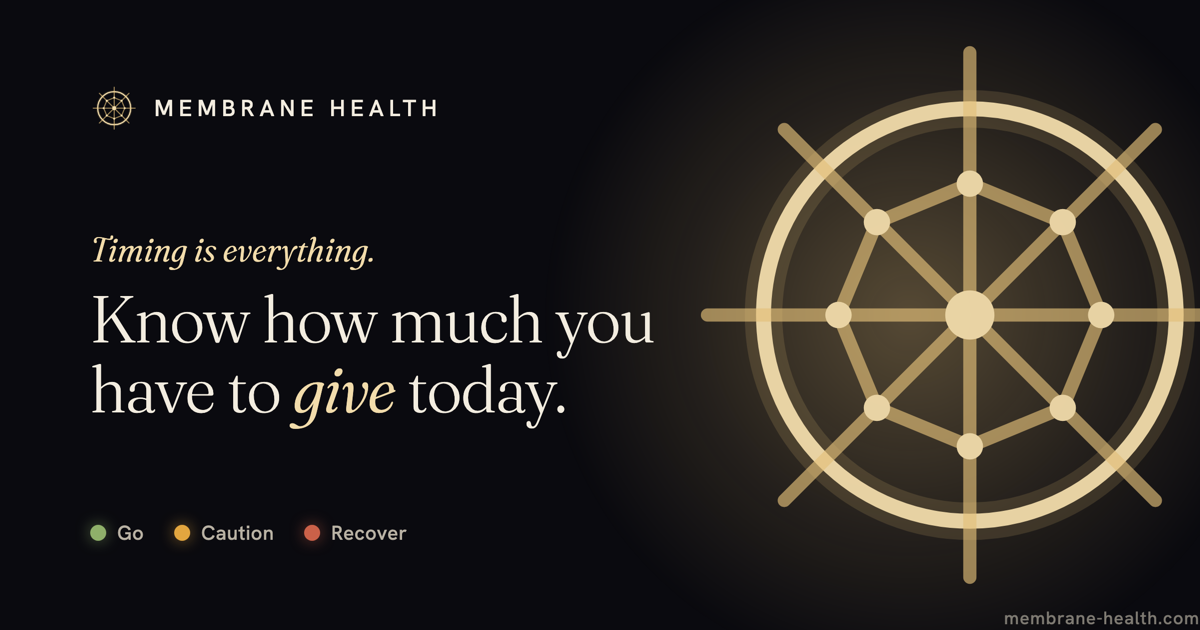
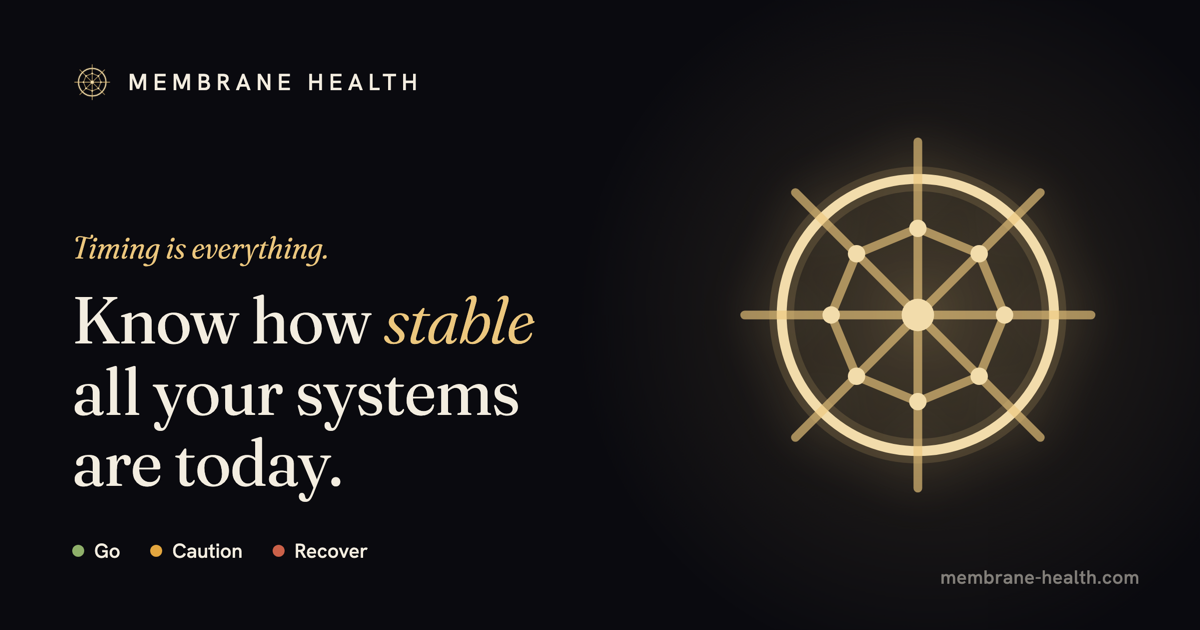
Refresh OG card to the current hero; cache-bust og:image
- Regenerate og-card.png with the rebuilt copy ("Know how stable all your
  systems are today" — was the stale "give" hero from the initial build)
- Cache-bust og:image / twitter:image to ?v=2 across all pages so social
  platforms re-fetch the new card instead of the cached old one

diff --git a/index.html b/index.html
@@ -12,12 +12,12 @@
   <meta property="og:url" content="https://membrane-health.com/">
   <meta property="og:title" content="Membrane Health — Know how stable your systems are today">
   <meta property="og:description" content="Membrane Health computes how coherently your systems are holding together today, measured against a mathematical definition of health and calibrated to you. Your result, live: go, caution, or recover. Built on your Apple Watch.">
-  <meta property="og:image" content="https://membrane-health.com/assets/img/og-card.png">
+  <meta property="og:image" content="https://membrane-health.com/assets/img/og-card.png?v=2">
   <meta property="og:image:width" content="1200">
   <meta property="og:image:height" content="630">
   <meta property="og:image:alt" content="Membrane Health — Timing is everything.">
   <meta name="twitter:card" content="summary_large_image">
-  <meta name="twitter:image" content="https://membrane-health.com/assets/img/og-card.png">
+  <meta name="twitter:image" content="https://membrane-health.com/assets/img/og-card.png?v=2">
 
   <link rel="icon" href="assets/img/favicon.ico" sizes="any">
   <link rel="icon" type="image/svg+xml" href="assets/img/favicon.svg">

diff --git a/privacy.html b/privacy.html
@@ -12,12 +12,12 @@
   <meta property="og:url" content="https://membrane-health.com/privacy.html">
   <meta property="og:title" content="Privacy Policy — Membrane Health">
   <meta property="og:description" content="How Membrane Health, a product of Fieldflux Biosystems, Inc., collects, uses, and protects your information — consent-driven, time-bounded, and never sold.">
-  <meta property="og:image" content="https://membrane-health.com/assets/img/og-card.png">
+  <meta property="og:image" content="https://membrane-health.com/assets/img/og-card.png?v=2">
   <meta property="og:image:width" content="1200">
   <meta property="og:image:height" content="630">
   <meta property="og:image:alt" content="Membrane Health — Timing is everything.">
   <meta name="twitter:card" content="summary_large_image">
-  <meta name="twitter:image" content="https://membrane-health.com/assets/img/og-card.png">
+  <meta name="twitter:image" content="https://membrane-health.com/assets/img/og-card.png?v=2">
 
   <link rel="icon" href="assets/img/favicon.ico" sizes="any">
   <link rel="icon" type="image/svg+xml" href="assets/img/favicon.svg">

diff --git a/faq.html b/faq.html
@@ -12,12 +12,12 @@
   <meta property="og:url" content="https://membrane-health.com/faq.html">
   <meta property="og:title" content="FAQ — Membrane Health">
   <meta property="og:description" content="Answers to common questions about Membrane Health — what it reads, whether you need an Apple Watch, how your data is handled, the plans, and when it launches.">
-  <meta property="og:image" content="https://membrane-health.com/assets/img/og-card.png">
+  <meta property="og:image" content="https://membrane-health.com/assets/img/og-card.png?v=2">
   <meta property="og:image:width" content="1200">
   <meta property="og:image:height" content="630">
   <meta property="og:image:alt" content="Membrane Health — Timing is everything.">
   <meta name="twitter:card" content="summary_large_image">
-  <meta name="twitter:image" content="https://membrane-health.com/assets/img/og-card.png">
+  <meta name="twitter:image" content="https://membrane-health.com/assets/img/og-card.png?v=2">
 
   <link rel="icon" href="assets/img/favicon.ico" sizes="any">
   <link rel="icon" type="image/svg+xml" href="assets/img/favicon.svg">

diff --git a/about.html b/about.html
@@ -12,12 +12,12 @@
   <meta property="og:url" content="https://membrane-health.com/about.html">
   <meta property="og:title" content="About — Fieldflux Biosystems">
   <meta property="og:description" content="Membrane Health is a product of Fieldflux Biosystems — reading human physiology on a math-first foundation. Timing is everything.">
-  <meta property="og:image" content="https://membrane-health.com/assets/img/og-card.png">
+  <meta property="og:image" content="https://membrane-health.com/assets/img/og-card.png?v=2">
   <meta property="og:image:width" content="1200">
   <meta property="og:image:height" content="630">
   <meta property="og:image:alt" content="Membrane Health — Timing is everything.">
   <meta name="twitter:card" content="summary_large_image">
-  <meta name="twitter:image" content="https://membrane-health.com/assets/img/og-card.png">
+  <meta name="twitter:image" content="https://membrane-health.com/assets/img/og-card.png?v=2">
 
   <link rel="icon" href="assets/img/favicon.ico" sizes="any">
   <link rel="icon" type="image/svg+xml" href="assets/img/favicon.svg">

diff --git a/terms.html b/terms.html
@@ -12,12 +12,12 @@
   <meta property="og:url" content="https://membrane-health.com/terms.html">
   <meta property="og:title" content="Terms &amp; Conditions — Membrane Health">
   <meta property="og:description" content="The Terms &amp; Conditions governing Membrane Health and the other products and services of Fieldflux Biosystems, Inc.">
-  <meta property="og:image" content="https://membrane-health.com/assets/img/og-card.png">
+  <meta property="og:image" content="https://membrane-health.com/assets/img/og-card.png?v=2">
   <meta property="og:image:width" content="1200">
   <meta property="og:image:height" content="630">
   <meta property="og:image:alt" content="Membrane Health — Timing is everything.">
   <meta name="twitter:card" content="summary_large_image">
-  <meta name="twitter:image" content="https://membrane-health.com/assets/img/og-card.png">
+  <meta name="twitter:image" content="https://membrane-health.com/assets/img/og-card.png?v=2">
 
   <link rel="icon" href="assets/img/favicon.ico" sizes="any">
   <link rel="icon" type="image/svg+xml" href="assets/img/favicon.svg">

diff --git a/404.html b/404.html
@@ -13,12 +13,12 @@
   <meta property="og:url" content="https://membrane-health.com/404.html">
   <meta property="og:title" content="Page not found — Membrane Health">
   <meta property="og:description" content="That page isn't here. Find your way back to Membrane Health.">
-  <meta property="og:image" content="https://membrane-health.com/assets/img/og-card.png">
+  <meta property="og:image" content="https://membrane-health.com/assets/img/og-card.png?v=2">
   <meta property="og:image:width" content="1200">
   <meta property="og:image:height" content="630">
   <meta property="og:image:alt" content="Membrane Health — Timing is everything.">
   <meta name="twitter:card" content="summary_large_image">
-  <meta name="twitter:image" content="https://membrane-health.com/assets/img/og-card.png">
+  <meta name="twitter:image" content="https://membrane-health.com/assets/img/og-card.png?v=2">
 
   <link rel="icon" href="assets/img/favicon.ico" sizes="any">
   <link rel="icon" type="image/svg+xml" href="assets/img/favicon.svg">

diff --git a/science.html b/science.html
@@ -11,9 +11,9 @@
   <meta property="og:url" content="https://membrane-health.com/science.html">
   <meta property="og:title" content="The science of Membrane Health">
   <meta property="og:description" content="From the human idea to the mathematics: health as organized continuity under changing load, read against a formally defined state space.">
-  <meta property="og:image" content="https://membrane-health.com/assets/img/og-card.png">
+  <meta property="og:image" content="https://membrane-health.com/assets/img/og-card.png?v=2">
   <meta name="twitter:card" content="summary_large_image">
-  <meta name="twitter:image" content="https://membrane-health.com/assets/img/og-card.png">
+  <meta name="twitter:image" content="https://membrane-health.com/assets/img/og-card.png?v=2">
   <link rel="icon" href="assets/img/favicon.ico" sizes="any">
   <link rel="icon" type="image/svg+xml" href="assets/img/favicon.svg">
   <link rel="apple-touch-icon" sizes="180x180" href="assets/img/apple-touch-icon.png">
